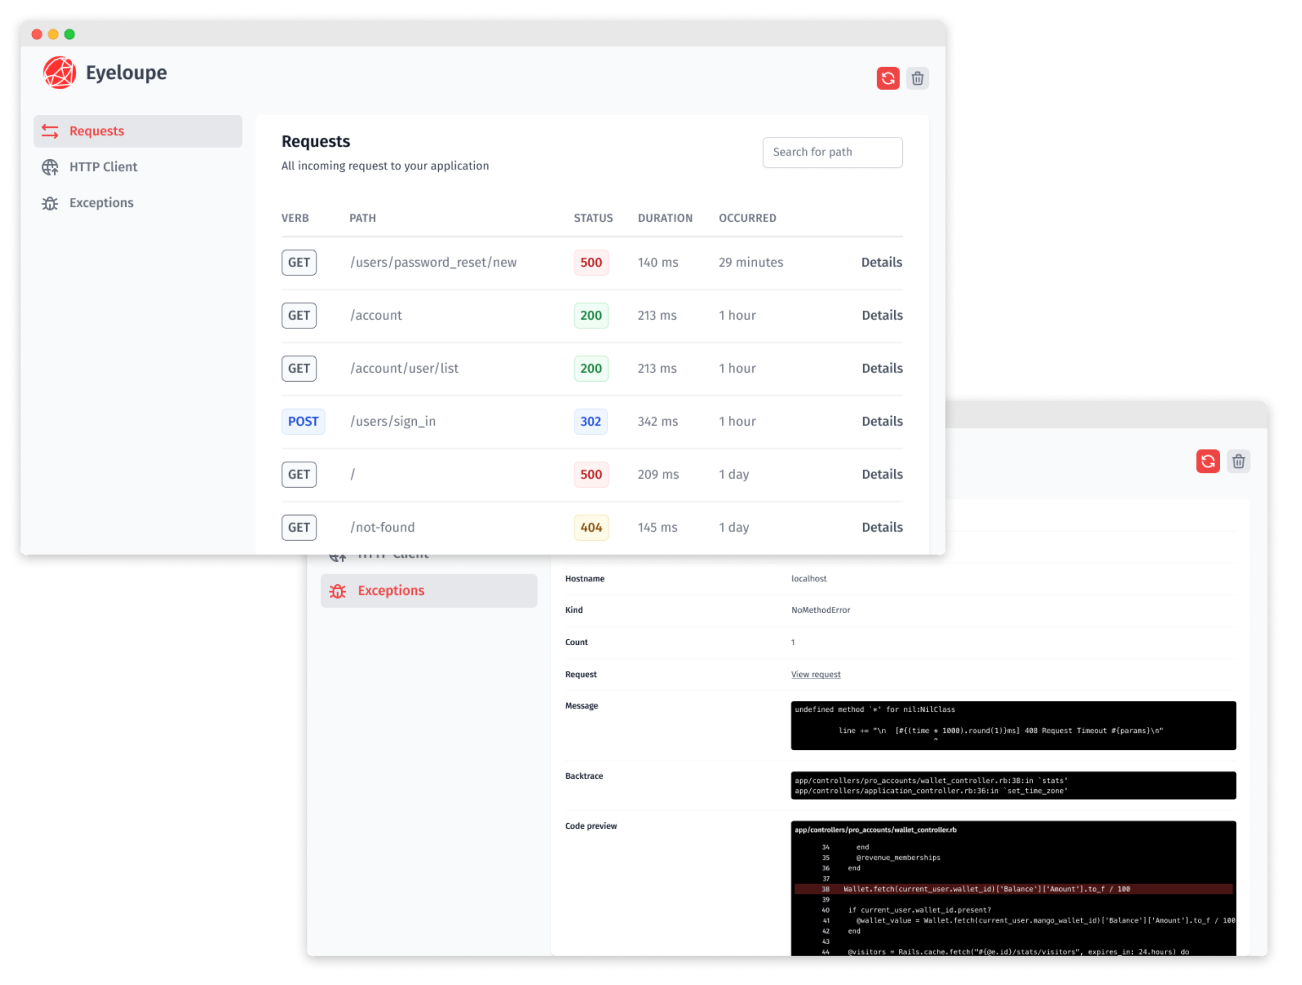
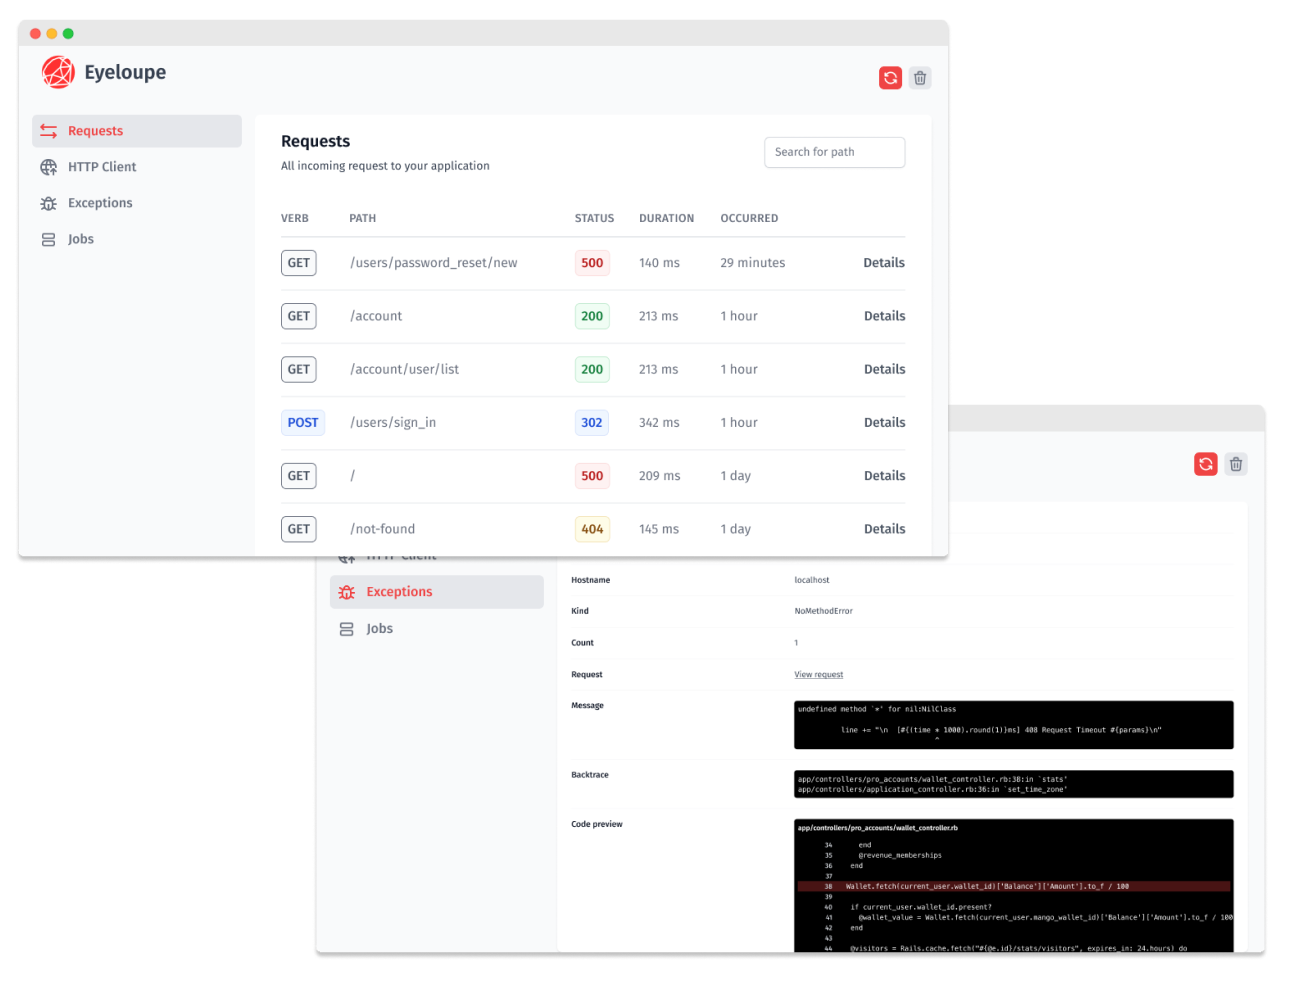
Finish jobs

diff --git a/lib/eyeloupe/processors/job.rb b/lib/eyeloupe/processors/job.rb
@@ -23,7 +23,7 @@ module Eyeloupe
           scheduled_at: scheduled_at(event),
           status: :enqueued,
           args: (args_info(job) || {}).to_json
-          )
+        )
       end
 
       # @param [ActiveSupport::Notifications::Event] event The event object
@@ -37,11 +37,21 @@ module Eyeloupe
       def complete(event)
         job = event.payload[:job]
 
-        Eyeloupe::Job.where(job_id: job.job_id).update(status: :completed, completed_at: Time.now.utc)
+        existing = Eyeloupe::Job.where(job_id: job.job_id).first
+
+        puts existing.inspect
+
+        puts job.inspect
+
+        if existing.failed?
+          Eyeloupe::Job.where(job_id: job.job_id).update(completed_at: Time.now.utc, retry: existing.retry + 1)
+        else
+          Eyeloupe::Job.where(job_id: job.job_id).update(status: :completed, completed_at: Time.now.utc, retry: job.executions - 1)
+        end
       end
 
       # @param [ActiveSupport::Notifications::Event] event The event object
-      def fail(event)
+      def failed(event)
         job = event.payload[:job]
 
         Eyeloupe::Job.where(job_id: job.job_id).update(status: :failed)

diff --git a/test/dummy/db/schema.rb b/test/dummy/db/schema.rb
@@ -10,7 +10,7 @@
 #
 # It's strongly recommended that you check this file into your version control system.
 
-ActiveRecord::Schema[7.0].define(version: 2023_06_04_190442) do
+ActiveRecord::Schema[7.0].define(version: 2023_08_27_161224) do
   create_table "eyeloupe_exceptions", force: :cascade do |t|
     t.string "hostname"
     t.string "kind"
@@ -47,6 +47,22 @@ ActiveRecord::Schema[7.0].define(version: 2023_06_04_190442) do
     t.text "response"
     t.datetime "created_at", null: false
     t.datetime "updated_at", null: false
+  end
+
+  create_table "eyeloupe_jobs", force: :cascade do |t|
+    t.string "classname"
+    t.string "job_id"
+    t.string "queue_name"
+    t.string "adapter"
+    t.integer "status", default: 0
+    t.datetime "scheduled_at"
+    t.datetime "executed_at"
+    t.datetime "completed_at"
+    t.integer "retry", default: 0
+    t.string "args"
+    t.datetime "created_at", null: false
+    t.datetime "updated_at", null: false
+    t.index ["job_id"], name: "index_eyeloupe_jobs_on_job_id", unique: true
   end
 
   create_table "eyeloupe_out_requests", force: :cascade do |t|

diff --git a/app/controllers/concerns/eyeloupe/searchable.rb b/app/controllers/concerns/eyeloupe/searchable.rb
@@ -4,6 +4,9 @@ module Eyeloupe
   module Searchable
     extend ActiveSupport::Concern
 
+    path_models = %w[InRequest OutRequest]
+    name_models = %w[Job]
+
     included do
       before_action :set_query, only: [:index]
     end
@@ -12,7 +15,8 @@ module Eyeloupe
 
     def set_query
       model = ("Eyeloupe::" + controller_name.classify).constantize
-      @query = params[:q].present? ? model.where('path LIKE ?', "%#{params[:q].strip}%").order(created_at: :desc)
+      where = model.attribute_names.include?("path") ? 'path' : 'classname'
+      @query = params[:q].present? ? model.where("#{where} LIKE ?", "%#{params[:q].strip}%").order(created_at: :desc)
                  : model.all.order(created_at: :desc)
     end
   end

diff --git a/lib/eyeloupe/engine.rb b/lib/eyeloupe/engine.rb
@@ -33,11 +33,11 @@ module Eyeloupe
         end
 
         ActiveSupport::Notifications.subscribe("retry_stopped.active_job") do |*args|
-          Eyeloupe::Processors::Job.instance.fail(ActiveSupport::Notifications::Event.new(*args))
+          Eyeloupe::Processors::Job.instance.failed(ActiveSupport::Notifications::Event.new(*args))
         end
 
         ActiveSupport::Notifications.subscribe("discard.active_job") do |*args|
-          Eyeloupe::Processors::Job.instance.disacard(ActiveSupport::Notifications::Event.new(*args))
+          Eyeloupe::Processors::Job.instance.discard(ActiveSupport::Notifications::Event.new(*args))
         end
       end
     end

diff --git a/test/controllers/eyeloupe/in_requests_controller_test.rb b/test/controllers/eyeloupe/in_requests_controller_test.rb
@@ -4,15 +4,19 @@ require "test_helper"
 
 module Eyeloupe
   class InRequestsControllerTest < ActionDispatch::IntegrationTest
-    fixtures "eyeloupe/in_requests"
+    include Engine.routes.url_helpers
+
+    setup do
+      @in_request = eyeloupe_in_requests(:one)
+    end
 
     test "should get index" do
-      get eyeloupe.in_requests_url
+      get in_requests_url
       assert_response :success
     end
 
     test "should get show" do
-      get eyeloupe.in_request_url(eyeloupe_in_requests(:one))
+      get in_request_url(@in_request)
       assert_response :success
     end
   end

diff --git a/test/controllers/eyeloupe/jobs_controller_test.rb b/test/controllers/eyeloupe/jobs_controller_test.rb
@@ -2,15 +2,19 @@ require "test_helper"
 
 module Eyeloupe
   class JobsControllerTest < ActionDispatch::IntegrationTest
-    fixtures "eyeloupe/jobs"
+    include Engine.routes.url_helpers
+
+    setup do
+      @job = eyeloupe_jobs(:one)
+    end
 
     test "should get index" do
-      get eyeloupe.jobs_url
+      get jobs_url
       assert_response :success
     end
 
     test "should get show" do
-      get eyeloupe.job_url(eyeloupe_jobs(:one))
+      get jobs_url(@job)
       assert_response :success
     end
   end

diff --git a/db/migrate/20230827161224_create_eyeloupe_jobs.rb b/db/migrate/20230827161224_create_eyeloupe_jobs.rb
@@ -9,8 +9,11 @@ class CreateEyeloupeJobs < ActiveRecord::Migration[7.0]
       t.datetime :scheduled_at
       t.datetime :executed_at
       t.datetime :completed_at
+      t.integer :retry, default: 0
       t.string :args
       t.timestamps
+
+      t.index :job_id, unique: true
     end
   end
 end

diff --git a/app/models/eyeloupe/job.rb b/app/models/eyeloupe/job.rb
@@ -1,5 +1,7 @@
 module Eyeloupe
   class Job < ApplicationRecord
+    validates :job_id, uniqueness: true
+
     enum status: [:enqueued, :running, :completed, :failed, :discarded]
   end
 end

diff --git a/test/dummy/app/helpers/application_helper.rb b/test/dummy/app/helpers/application_helper.rb
@@ -1,3 +1,2 @@
 module ApplicationHelper
-
 end

diff --git a/README.md b/README.md
@@ -12,7 +12,7 @@
     <img src="app/assets/images/eyeloupe/logo.png" width=120 alt="Logo" >
   </a>
 
-<h3 align="center">Eyeloupe (beta)</h3>
+<h3 align="center">Eyeloupe</h3>
 
   <p align="center">
     The elegant Rails debug assistant. AI powered.
@@ -141,13 +141,6 @@ Eyeloupe is not a performance-oriented tool, the request time is the same you ca
 
 Yes, Eyeloupe is inspired by Laravel Telescope. A lot of people coming from Laravel are missing Telescope or looking for something similar, so Eyeloupe is here to fill this gap.
 
-## Roadmap
-
-- [x] Exceptions - Track all the exceptions thrown by your application
-- [x] AI assistant - Use OpenAI API to help you to solve your exceptions
-- [ ] Custom links to the menu - To access all of your debug tool in one place (Sidekiq web, Mailhog, etc.)
-- [ ] Refactoring / clean code - To make the code more readable and maintainable
-
 ## Contributing
 Contributions are what makes the open-source community such an amazing place to learn, inspire, and create. Any contributions you make are **greatly appreciated**.
 
@@ -165,7 +158,7 @@ The gem is available as open source under the terms of the [MIT License](https:/
 
 ## Contact
 
-[![](https://img.shields.io/badge/@alxlion__-1DA1F2?style=for-the-badge&logo=twitter&logoColor=white)](https://twitter.com/alxlion_)
+[![](https://img.shields.io/badge/@alxlion__-000000?style=for-the-badge&logo=x&logoColor=white)](https://x.com/alxlion_)
 
 Project Link: [https://github.com/alxlion/eyeloupe](https://github.com/alxlion/eyeloupe)
 

diff --git a/CHANGELOG.md b/CHANGELOG.md
@@ -1,3 +1,8 @@
+## 0.4.0
+
+- Add support for ActiveJob
+- Fix pretty formatting of payloads
+
 ## 0.3.1
 
 - Add optional database config (thanks to @kiskoza).
